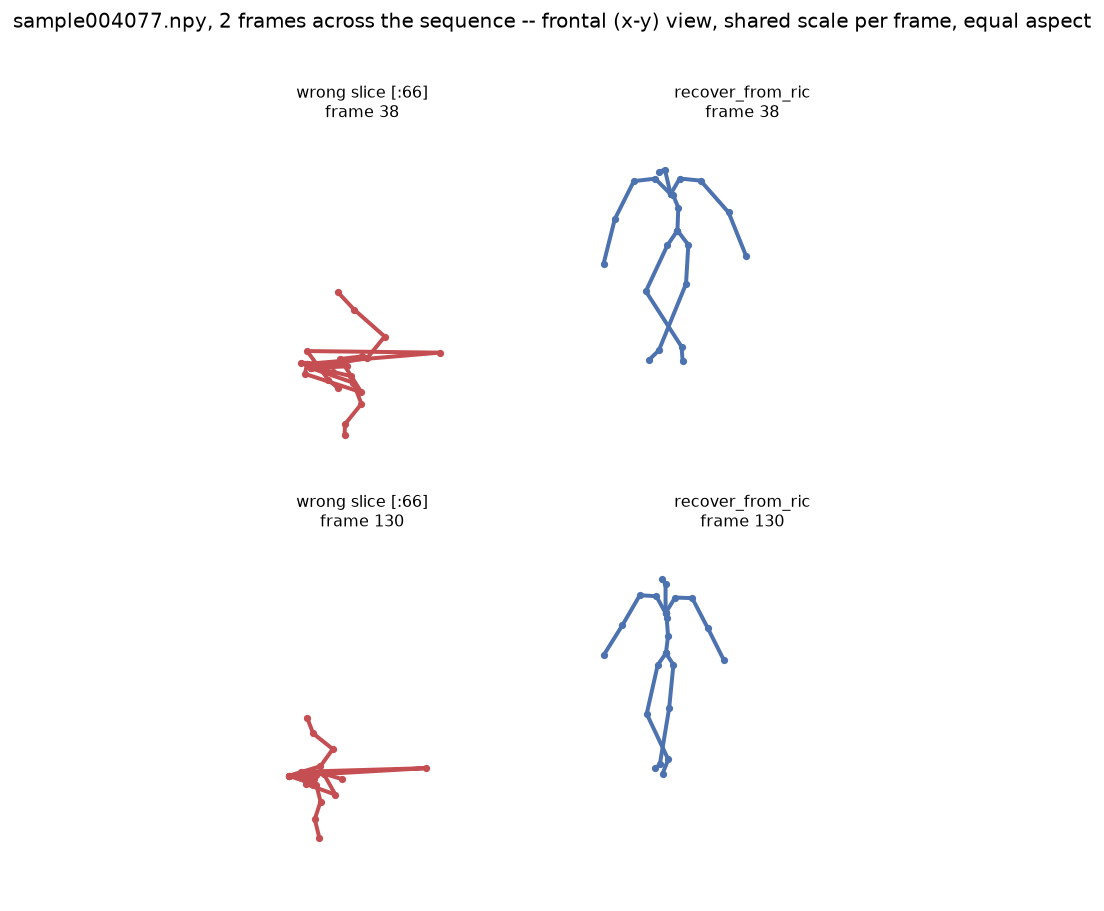
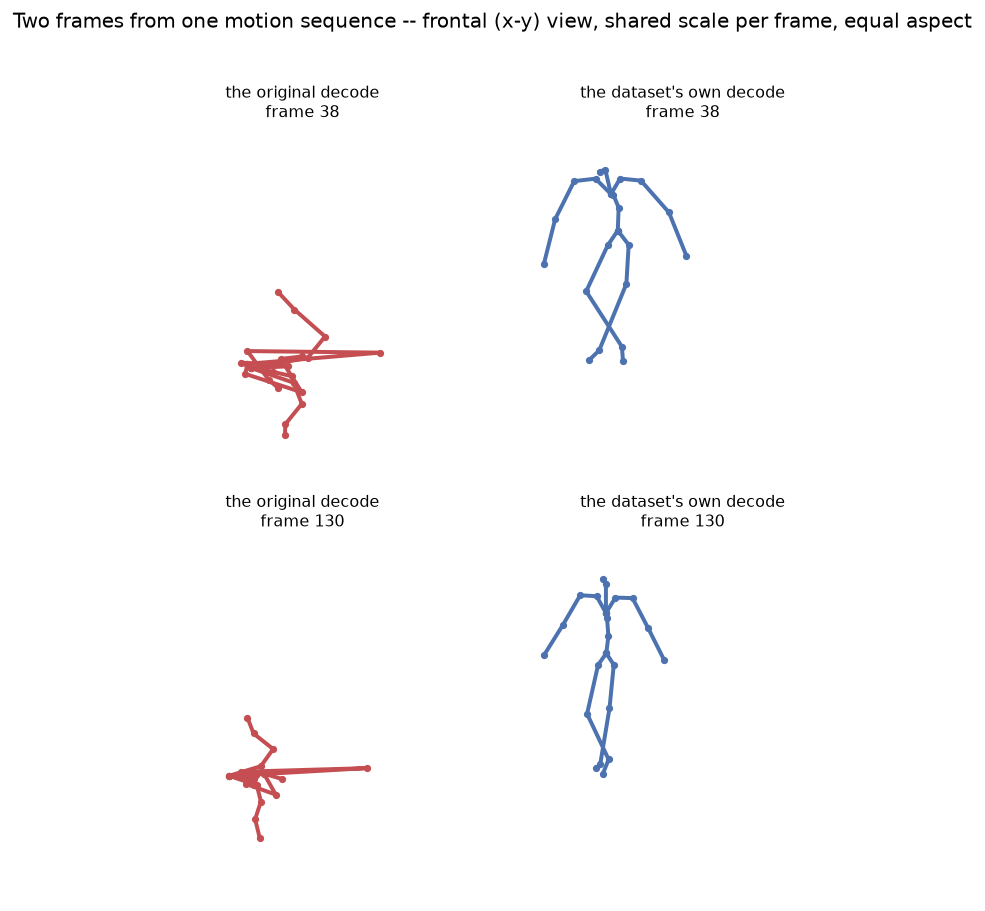
deck: fix two editorial-rule violations on slide 3's new figure
Both caught by the planner, both real, both against rules already binding on this deck:

1. Panel labels read "wrong slice [:66]" -- violates DECK_PLAN.md S2's own binding rule
   (no "wrong"/"failed"/"broken" anywhere about the predecessor, face or figure). Relabelled
   to "the original decode" / "the dataset's own decode" -- same comparison, no verdict in
   the label; the image's own visual contrast (tangle vs. recognizable figure) carries the
   argument.
2. The title carried a source filename (sample004077.npy) and a panel carried an internal
   function name (recover_from_ric) -- violates house-style rule 3 (no internal identifiers
   on a face). Retitled to a plain description; both moved to slide 3's presenter notes in
   slides.md, where provenance belongs, rather than dropped.

Re-measured after the label change rather than assuming geometry was unaffected: aspect
moved from 0.825 to 0.925 (shorter labels shrank the tight-bbox crop width slightly) --
still inside the 0.80-0.95 target and well clear of the 240px floor. Verified against a
freshly restarted local server before committing: all 13 slides clean.

diff --git a/deck/img/make_fig03_skeleton_stacked.py b/deck/img/make_fig03_skeleton_stacked.py
@@ -107,11 +107,16 @@ for row, frame_idx in enumerate(strip_frames):
     pad = 0.15 * (allpts.max() - allpts.min())
     lims = (allpts.min() - pad, allpts.max() + pad)
 
-    draw_skeleton_2d(axes[row, 0], W, "#c44e52", f"wrong slice [:66]\nframe {frame_idx}", lims)
-    draw_skeleton_2d(axes[row, 1], C, "#4c72b0", f"recover_from_ric\nframe {frame_idx}", lims)
+    # Labels fixed 2026-09-16 per DECK_PLAN.md S2 (no "wrong"/"failed"/"broken" on a face --
+    # this project's own binding editorial rule, which the first version of this figure
+    # broke) and house-style rule 3 (no internal filenames or function names on a face --
+    # sample004077.npy and recover_from_ric are provenance, not slide content). Both moved
+    # to the presenter notes in deck/slides.md instead of being dropped.
+    draw_skeleton_2d(axes[row, 0], W, "#c44e52", f"the original decode\nframe {frame_idx}", lims)
+    draw_skeleton_2d(axes[row, 1], C, "#4c72b0", f"the dataset's own decode\nframe {frame_idx}", lims)
 
-fig.suptitle(f"{example_file}, {len(strip_frames)} frames across the sequence -- frontal (x-y) "
-             f"view, shared scale per frame, equal aspect", y=1.02, fontsize=11)
+fig.suptitle(f"Two frames from one motion sequence -- frontal (x-y) view, shared scale per "
+             f"frame, equal aspect", y=1.02, fontsize=11)
 plt.tight_layout()
 out_path = os.path.join(os.path.dirname(__file__), "03_skeleton_comparison_stacked.png")
 plt.savefig(out_path, dpi=130, bbox_inches="tight")

diff --git a/deck/slides.md b/deck/slides.md
@@ -80,7 +80,7 @@ A model that produces plausible output and raises no exception cannot be judged 
 
 ::right::
 
-<img src="/img/03_skeleton_comparison_stacked.png" alt="Two frames, well separated in time: the wrong slice decode stays an incoherent tangle at both, the correct decode is a recognizable human figure whose pose visibly changes between them">
+<img src="/img/03_skeleton_comparison_stacked.png" alt="Two frames, well separated in time: the original decode stays an incoherent tangle at both, the dataset's own decode is a recognizable human figure whose pose visibly changes between them">
 
 <!--
 deck/PRESENTER_NOTES.md: "17 pipeline and metric failure modes -- docs/LANDMINES.md, S1-15
@@ -103,14 +103,25 @@ scoped to "figures the worker made" missed it. Below the 240px floor at this dec
 35%-column width (peer-verified ~193px predicted, ~171px measured on the live deck at an
 emulated viewport). Regenerated as a column-friendly, near-square comparison
 (deck/img/03_skeleton_comparison_stacked.png, deck/img/make_fig03_skeleton_stacked.py,
-0.825 aspect, measured directly from the saved file after a tight-bbox-crop iteration, not
-assumed from the requested figsize) -- 2 rows (frames, the widest available temporal
-separation from the original 4-point strip, not reduced to 1) x 2 columns (wrong slice |
-correct decode), preserving the "incoherent over TIME, not a single bad pose" argument
-rather than the peer's literal single-frame suggestion. notebooks/03_skeleton_side_by_side.png
-itself and its generating notebook cell (03_263d_representation_and_f1_bug.ipynb, cell
-af057b27) are untouched -- this is a separate, deck-only asset, not an edit to the
-notebook's own primary record.
+0.925 aspect after a label-wording fix below, measured directly from the saved file after a
+tight-bbox-crop iteration, not assumed from the requested figsize) -- 2 rows (frames, the
+widest available temporal separation from the original 4-point strip, not reduced to 1) x 2
+columns (the original decode | the dataset's own decode), preserving the "incoherent over
+TIME, not a single bad pose" argument rather than the peer's literal single-frame
+suggestion. notebooks/03_skeleton_side_by_side.png itself and its generating notebook cell
+(03_263d_representation_and_f1_bug.ipynb, cell af057b27) are untouched -- this is a
+separate, deck-only asset, not an edit to the notebook's own primary record.
+
+Labels fixed 2026-09-16, caught by the planner against two rules already in force for this
+deck: the panels originally read "wrong slice [:66]" (violates DECK_PLAN.md S2's binding
+no-"wrong"/"failed"/"broken" rule about the predecessor) and the title carried the source
+filename (sample004077.npy) with "recover_from_ric" as a panel label (violates house-style
+rule 3: no internal filenames or function names on a face). Relabelled to "the original
+decode" / "the dataset's own decode" and a filename-free title -- same argument, same
+geometry, nothing evaluative or internal left on the face. Provenance, for the record
+rather than the face: sample004077.npy, frames 38 and 130 of that sequence; left panel is
+motion[:, :66] reshaped naively (the predecessor's own method); right panel is
+recover_from_ric from third_party/motion-diffusion-model's own motion_process.py, unmodified.
 -->
 
 ---
